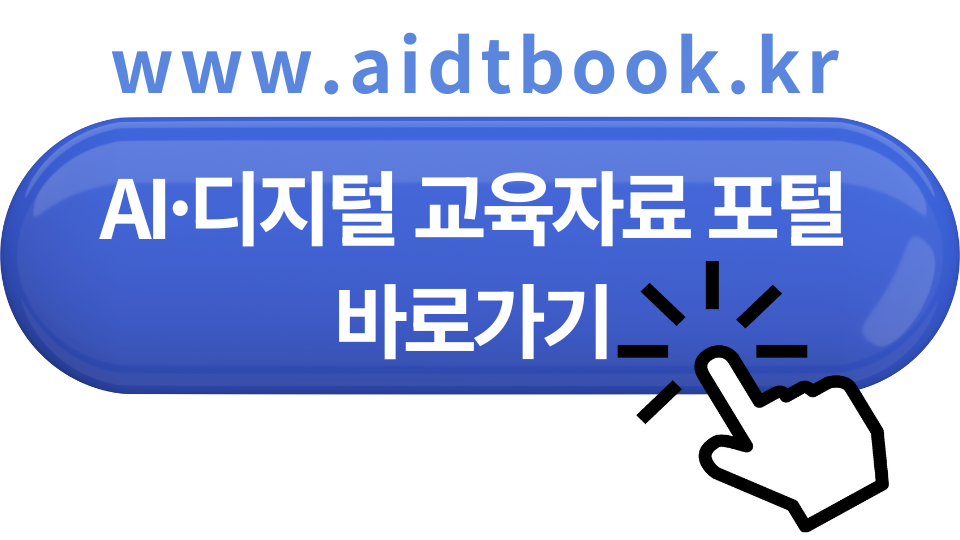
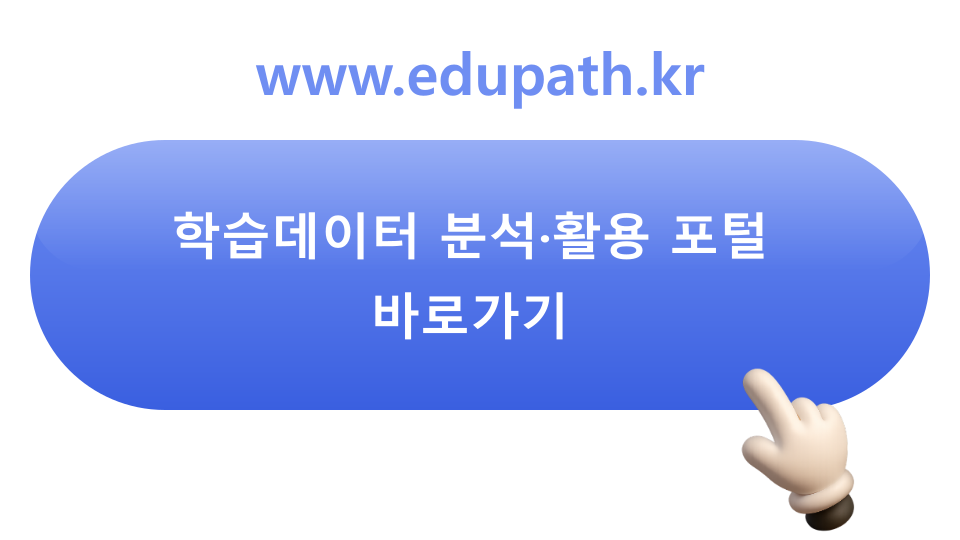
feat(portal,contact,landing): 포털 명칭·URL 전환 + 발행사 목록 갱신 + 문의 페이지 재구성
- AI·디지털 교육자료 포털 → 학습데이터 분석·활용 포털, aidtbook.kr → edupath.kr 전면 치환
- 공동CS 참여사 11개사 → 8개사, 개별 지원 발행사 9개사로 재구성 및 연락처 갱신
- /contact 카드 순서 재배치, 스마트문의 안내를 포털 문의 카드 안으로 통합, 전화/링크 아이콘 통일
- 랜딩 카드뉴스를 /index/AIDT로 이동, 홍보 영상 반응형 폭 조정 + 클릭 시 컨트롤 토글
- /class/curriculum KERIS 초·중등 자료 링크 연결

diff --git a/docs/STATUS.md b/docs/STATUS.md
@@ -1,6 +1,6 @@
 # 진행 현황 (ai-dt.net)
 
-최종 갱신: 2026-07-28
+최종 갱신: 2026-08-12
 
 ## 남은 작업 (핸드오프)
 
@@ -10,7 +10,8 @@
 **운영자 콘텐츠 채우기 (2608 브랜치)**
 - [ ] 수업이야기 카드뉴스: `src/data/classCards.ts`에 항목 추가 + `src/assets/cards/{case|howto|edtech}/{id}/01.png…`
 - [ ] 활용 수업 사례 PDF: `public/pdf/case/`에 파일을 두고 항목의 `pdf` 값에 파일명 기입
-- [ ] 홈 카드뉴스 교체·추가 시 `src/assets/pages/index/cardnews/` (16:9 권장)
+- [ ] 홈 카드뉴스 교체·추가 시 `src/assets/pages/index/cardnews/` (16:9 권장) — 2026-08-12부터 홈이 아닌 `/index/AIDT`(활용 도움자료) 페이지 제목 바로 아래로 이동.
+- [x] 홈 상단 홍보 영상 추가(2026-08-11, 2026-08-12 보완): `src/pages/index.astro`, `edu-link` 워커의 `/media/*` 프록시로 R2(`edulink-pages-media` 버킷) 객체를 서빙 — `https://dgedu.link/media/ai-dt-net/202608_promo.mp4`. 음소거·자동재생·무한반복(loop), 클릭 시 네이티브 재생 컨트롤 토글. 모바일은 좌우 여백 없이 풀블리드, 데스크톱은 하단 CTA 패널(`max-w-6xl`)과 동일 폭. ai-dt.net은 R2 직접 바인딩 없음.
 
 **배포 (P5, 운영자 계정 필요)**
 - [ ] Cloudflare Pages ↔ GitHub 레포 연동 (설정값·절차: `docs/DEPLOY.md`). 운영자가 진행 예정.
@@ -34,6 +35,46 @@
 ---
 
 ## 현재 단계: 개선사항 (브랜치 `2608`)
+
+### 포털 명칭 변경·문의 페이지 재구성·랜딩 정리 (2026-08-12)
+
+**0. 포털 명칭 전면 변경 (사이트 전체)**
+- "AI·디지털 교육자료 포털" → **"학습데이터 분석·활용 포털"**, `www.aidtbook.kr` → **`www.edupath.kr`**.
+  헤더/랜딩/푸터/사전 준비사항 안내/활용 도움자료/스스로 학습 안내/문의 페이지 등 텍스트·링크 전량 치환.
+- `/study` 페이지의 포털 바로가기 버튼 이미지(`src/assets/pages/study/portal-button.png`)도 새 이름·URL로
+  다시 생성(`sharp` + SVG 래스터라이즈, pptx에서 추출한 손가락 아이콘 재사용).
+
+**1. 발행사 목록 변경** (`AI·디지털 교육자료 발행사 공동 CS 센터` ☎1661-0777)
+- 참여사 11개사 → **8개사**로 축소: 교문사·도서출판 길벗·동아출판·씨마스·아이스크림미디어·
+  **엘리스그룹**(신규)·와이비엠·**잇플**(개별→참여사로 이동). 클래스팅은 목록에서 제외,
+  디딤돌교육·비상교육·엔이능률·천재교과서·천재교육은 개별 지원 창구로 이동.
+- 개별 출판사 지원 창구(`AI·디지털 교육자료 발행사별 지원 센터`)는 9개사로 재구성, 전화번호 갱신
+  (미래엔 02-3475-4021, 금성출판사 02-2077-8233, 지학사/교학사/디딤돌교육 1566-1053 공유,
+  비상교육 1544-0554, 천재교육/천재교과서 1522-1955 공유, 엔이능률 1833-8368).
+- 랜딩 히어로 카드·푸터의 "11개 발행사" 표기 → "8개 발행사"로 갱신.
+
+**2. `/contact` 카드 순서·내용 재구성**
+- 순서: 학습데이터 분석·활용 포털 문의(대처요령 박스 포함) → 회원가입 관련 문의 → 대구광역시교육청
+  테크센터 운영 → 발행사 공동CS → 개별 출판사.
+- "문의 발생시 대처요령"(pptx 1쪽 내용: 스마트문의등록→답변 확인 2단계)을 별도 카드가 아니라
+  **학습데이터 분석·활용 포털 문의 카드 안에 내장**. 제목을
+  "학습데이터 분석·활용 포털에서 [스마트문의]로 쉽게 문의하고 답변 확인하기"로 정리.
+- 회원가입 관련 문의 카드에 지원 내용/접수·처리 내용 추가(`/index/eduonepass` 페이지 내용 참조),
+  링크 텍스트를 "교육디지털원패스(edupass.neisplus.kr)"로 URL 명시.
+- 대구광역시교육청 테크센터 운영 카드 제목 옆에 전화번호(☎ 053-235-9999) 표기 추가.
+- 전화번호는 전부 `☎`, 외부/페이지 링크 뒤에는 공통 우상향 화살표 아이콘
+  (신규 `src/components/ArrowIcon.astro`)을 붙이도록 통일. 좁은 화면(300~375px)에서
+  텍스트 겹침·overflow 없음을 실측 확인.
+
+**3. 랜딩 정리**
+- 카드뉴스 섹션을 홈에서 제거하고 `/index/AIDT`(활용 도움자료) 페이지 제목 바로 아래로 이동
+  (제목 없이, 원래 폭 그대로).
+- 홍보 영상: 모바일은 좌우 여백 없는 풀블리드, 데스크톱은 하단 CTA 패널과 동일 폭(`max-w-6xl`).
+  클릭하면 네이티브 재생 컨트롤이 토글되도록 스크립트 추가.
+
+**4. `/class/curriculum` 자료 링크**
+- "디지털 역량 교육자료(KERIS)" 카드의 초등/중등 자료 버튼이 자리표시자(`#`)였던 것을 실제
+  KERIS 링크로 연결.
 
 ### 랜딩·문의·수업이야기 개선 (2026-07-28) — 계획서: `docs/PLAN-2608.md`
 
